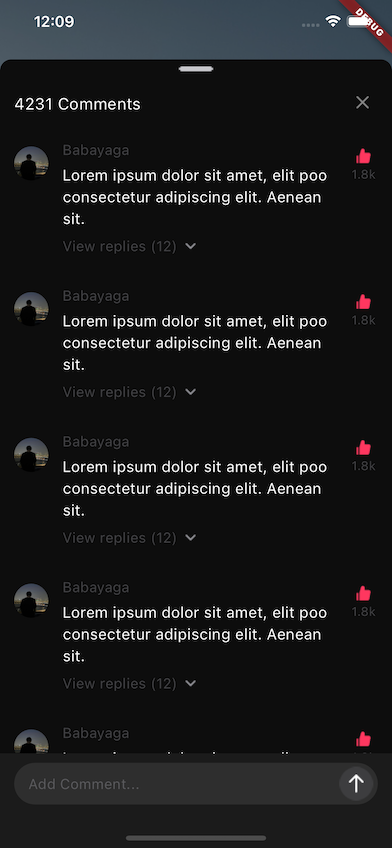
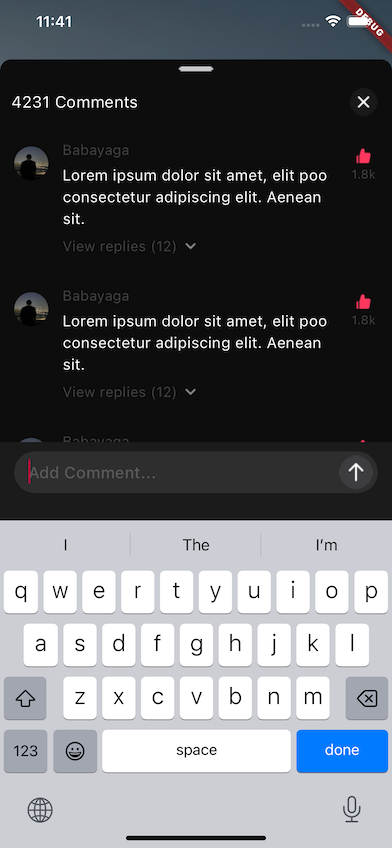
优化评论框弹出问题；

diff --git a/flutter_tiktok_app/lib/widgets/comment_bottom_sheet.dart b/flutter_tiktok_app/lib/widgets/comment_bottom_sheet.dart
@@ -1,14 +1,81 @@
+import 'dart:ui';
+import 'dart:math';
 import 'package:flutter/material.dart';
 import 'package:flutter_tiktok_app/widgets/sheet_comment_cell.dart';
 import 'package:flutter_tiktok_app/theme/colors.dart';
 
-class HomeCommentSheet extends StatelessWidget {
-  const HomeCommentSheet({Key? key}) : super(key: key);
+class CommentBottomSheet extends StatefulWidget {
+  const CommentBottomSheet({Key? key}) : super(key: key);
+
+  @override
+  _CommentBottomSheetState createState() => _CommentBottomSheetState();
+}
+
+class _CommentBottomSheetState extends State<CommentBottomSheet>
+    with WidgetsBindingObserver {
+  final _focusNode = FocusNode();
+  final _editingController = TextEditingController();
+
+  /// 系统键盘高度
+  double keyboardHeight = 0.0;
+
+  /// 是否展示键盘
+  bool isKeyboardShow = false;
+
+  @override
+  void initState() {
+    // TODO: implement initState
+    super.initState();
+
+    _focusNode.addListener(() {});
+    // 注册WidgetsBindingObserver
+    WidgetsBinding.instance.addObserver(this);
+  }
+
+  @override
+  void dispose() {
+    _focusNode.dispose();
+    // 移除WidgetsBindingObserver
+    WidgetsBinding.instance.removeObserver(this);
+
+    super.dispose();
+  }
+
+  @override
+  void didChangeMetrics() {
+    final bottom = MediaQueryData.fromWindow(window).viewInsets.bottom;
+    super.didChangeMetrics();
+
+    // 键盘存在中间态，回调是键盘冒出来的高度
+    keyboardHeight = max(keyboardHeight, bottom);
+    if (bottom == 0) {
+      setState(() {
+        isKeyboardShow = false;
+      });
+      print("==> 键盘关闭");
+    } else if (bottom == keyboardHeight || keyboardHeight == 0) {
+      setState(() {
+        isKeyboardShow = true;
+      });
+      print("==> 键盘打开");
+    } else {
+      setState(() {
+        isKeyboardShow = false;
+      });
+      print("==> 键盘关闭");
+    }
+    print(keyboardHeight);
+
+    Future.delayed(Duration(microseconds: 1000), () => true);
+  }
 
   @override
   Widget build(BuildContext context) {
     double screenWidth = MediaQuery.of(context).size.width;
     double screenHeight = MediaQuery.of(context).size.height;
+
+    // 获取键盘高度
+    keyboardHeight = MediaQuery.of(context).viewInsets.bottom;
 
     return Container(
       width: screenWidth,
@@ -62,7 +129,7 @@ class HomeCommentSheet extends StatelessWidget {
             },
           )),
           Container(
-            height: 100,
+            height: isKeyboardShow ? (83 + keyboardHeight) : 83,
             color: appBgColor3,
             child: Column(
               children: [
@@ -76,18 +143,32 @@ class HomeCommentSheet extends StatelessWidget {
                         color: appBgColor2),
                     child: Row(
                       children: [
-                        SizedBox(width: 15.0),
                         Expanded(
-                            child: Text(
-                          "Add Comment...",
-                          style: TextStyle(
-                              color: gray.withAlpha(60), fontSize: 15),
+                            child: TextField(
+                          focusNode: _focusNode,
+                          controller: _editingController,
+                          decoration: InputDecoration(
+                            hintText: 'Add Comment...',
+                            labelStyle: TextStyle(color: white),
+                            hintStyle: TextStyle(
+                                color: gray.withAlpha(60), fontSize: 17),
+                            border: InputBorder.none,
+                            contentPadding: EdgeInsets.symmetric(
+                                vertical: -15, horizontal: 15.0), // 设置垂直内边距
+                          ),
+                          onChanged: (value) {
+                            // 处理搜索框文本变化事件
+                          },
                         )),
                         Container(
-                            width: 36,
-                            child: Image.asset('assets/images/comment_up.png',
-                                width: 36, height: 36)),
-                        SizedBox(width: 5.0),
+                            child: GestureDetector(
+                          child: Image.asset('assets/images/comment_up.png',
+                              fit: BoxFit.fill),
+                          onTap: () {
+                            _editingController.clear();
+                          },
+                        )),
+                        SizedBox(width: 6.0),
                       ],
                     ),
                   ),

diff --git a/flutter_tiktok_app/lib/pages/home/home_page.dart b/flutter_tiktok_app/lib/pages/home/home_page.dart
@@ -48,16 +48,16 @@ class _HomePageState extends State<HomePage>
                       print("Selected index ${index}");
                     },
                   )),
-              // 顶部内容
-              Row(
+              // 底部内容
+              Expanded(
+                  child: Row(
                 children: [
                   // 左侧音乐
                   Align(
-                      alignment: Alignment.bottomRight,
+                      alignment: Alignment.bottomLeft,
                       child: Container(
+                          height: 180,
                           width: screenWidth * 0.8,
-                          margin: EdgeInsets.only(top: screenHeight * 0.55),
-                          alignment: Alignment.bottomLeft,
                           child: HomeUserFollow(onTap: () {
                             Navigator.push(
                               context,
@@ -69,14 +69,14 @@ class _HomePageState extends State<HomePage>
                   Align(
                       alignment: Alignment.bottomRight,
                       child: Container(
+                          height: 360,
                           width: screenWidth * 0.2,
-                          margin: EdgeInsets.only(top: screenHeight * 0.32),
                           alignment: Alignment.bottomRight,
                           child: HomeRightItem(onPressed: () {
                             _showCustomBottomSheet(context);
                           })))
                 ],
-              )
+              )),
             ])
           ]),
         ));
@@ -87,7 +87,7 @@ class _HomePageState extends State<HomePage>
       context: context,
       isScrollControlled: true,
       builder: (BuildContext context) {
-        return HomeCommentSheet();
+        return const CommentBottomSheet();
       },
     );
   }

diff --git a/flutter_tiktok_app/lib/pages/discover/discover_page.dart b/flutter_tiktok_app/lib/pages/discover/discover_page.dart
@@ -66,7 +66,7 @@ class _DiscoverPageState extends State<DiscoverPage> {
                 MaterialPageRoute(builder: (context) => SearchPage()),
               );
             }),
-            SizedBox(height: 8.0),
+            SizedBox(height: 5.0),
             Container(
                 child: Column(
               children: [
@@ -76,7 +76,6 @@ class _DiscoverPageState extends State<DiscoverPage> {
                 SizedBox(height: 5.0),
               ],
             )),
-            SizedBox(height: 0.1),
             Expanded(
                 child: ListView.builder(
               itemCount: dataList.length, //总共的分组

diff --git a/flutter_tiktok_app/lib/pages/discover/views/discover_item_cell.dart b/flutter_tiktok_app/lib/pages/discover/views/discover_item_cell.dart
@@ -15,7 +15,7 @@ class DisCoverItemCell extends StatelessWidget {
           width: 130,
           child: Image.asset(
             model.image,
-            fit: BoxFit.fill,
+            fit: BoxFit.cover,
           ),
         ),
         Align(

diff --git a/flutter_tiktok_app/lib/main.dart b/flutter_tiktok_app/lib/main.dart
@@ -27,4 +27,3 @@ class MyApp extends StatelessWidget {
   }
 }
 
-class NoInkSplash {}
